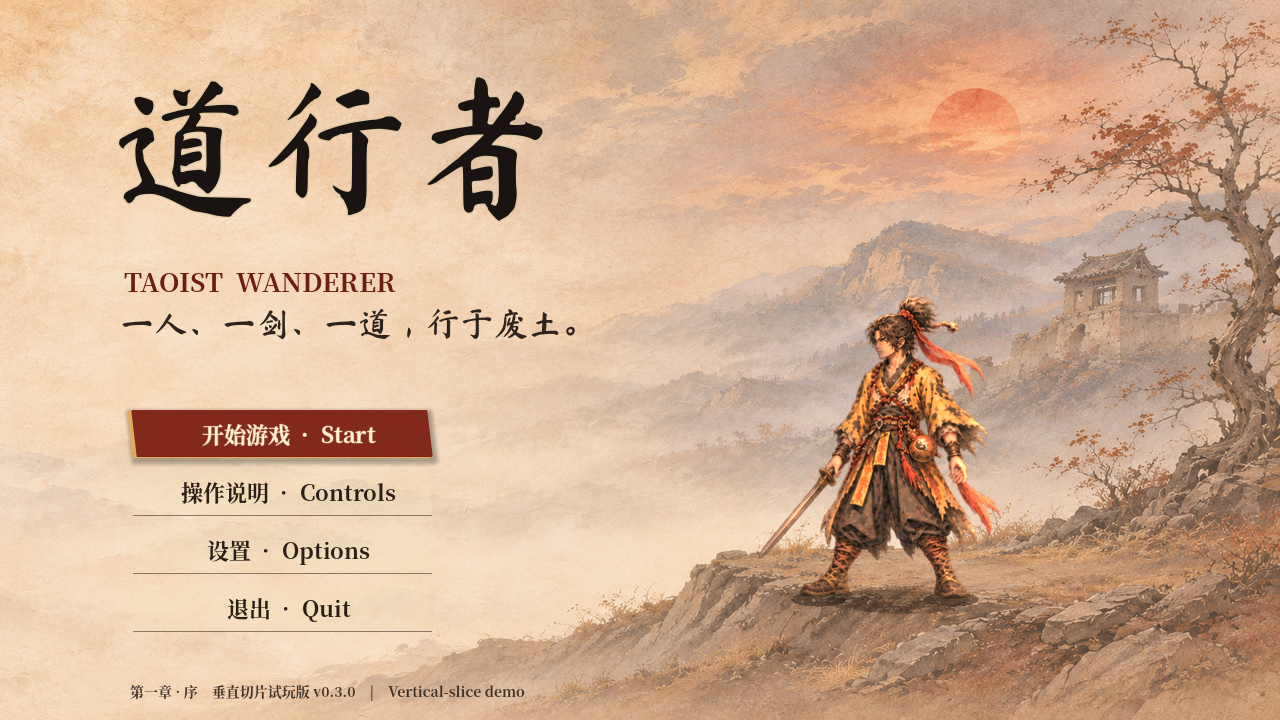
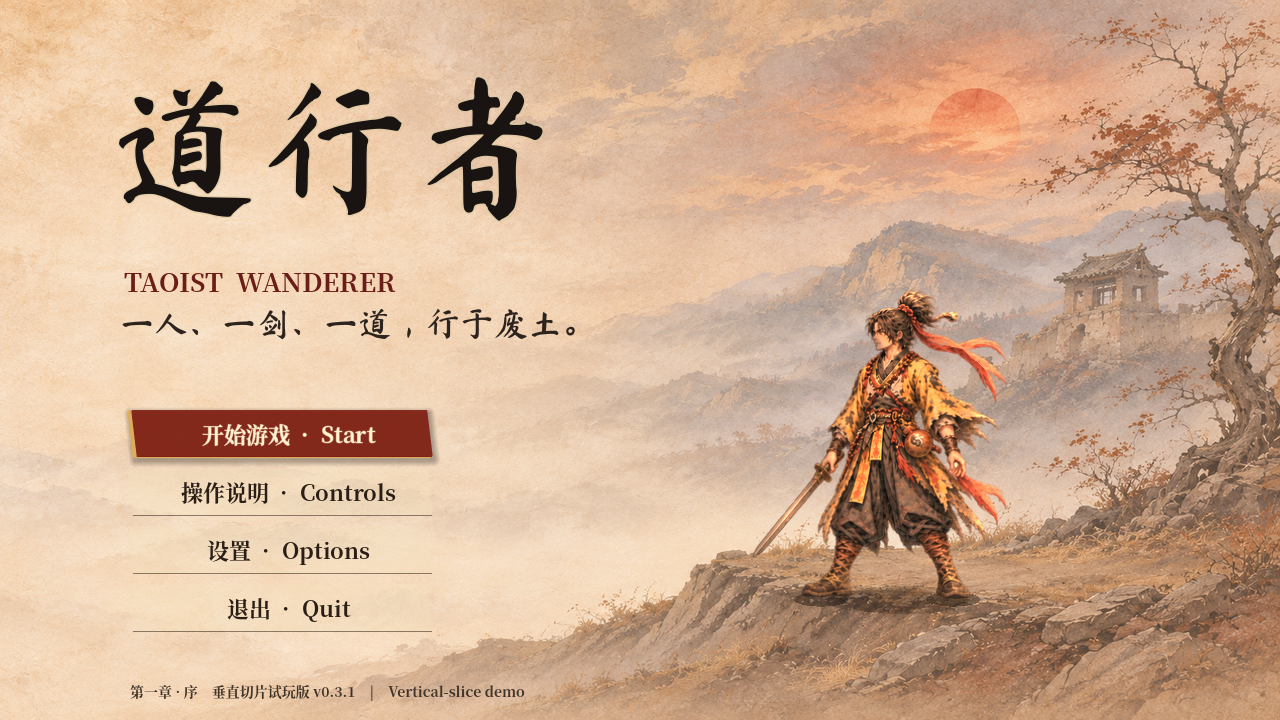
0.3.1: evidence, docs, release notes
- evidence/v0.3.1: same-harness before/after captures vs 451d4d3,
  baseline validation, fixes table, native Linux package results.
- DEVELOPMENT_STATUS / ROADMAP / DECISIONS (D22 guard stance, D23 UI
  theme) / BUILD_AND_RUN (branch, visual review modes) / RELEASE_NOTES.
- Version 0.3.1.

Changed region(s): [[0.5938, 0.3972, 0.7812, 0.825]]

diff --git a/evidence/v0.3.1/README.md b/evidence/v0.3.1/README.md
@@ -1,0 +1,41 @@
+# 0.3.1 · 接手验证与画面修整
+
+基线：Codex 最新提交 `451d4d3`（比已发布 RC1 `93cee6d` 新 5 个提交，含逐帧动画、2.5D 光照、打击感与标题/结局）。
+分支：`claude/post-codex-continuation`。
+
+![左列 451d4d3，右列 0.3.1。依次为标题菜单、毒池中的主角、尸将结界与光门、首战。](comparison.jpg)
+
+同一测试脚本（`game/tests/test_runner.gd` 的 `titlecap`、`showcase`、`gatecap` 模式）分别在 `451d4d3` 工作树与本分支上运行，Xvfb + 软件 GL，1280×720，`--fixed-fps 60`。原图在 [before/](before) 与 [after/](after)。
+
+## 基线验证（451d4d3，未修改前）
+- 干净导入：成功（首次导入时字体尚未导入的 4 行报错属正常顺序问题，二次启动无报错）。
+- `--test=all`：52/52 通过。
+- 通关机器人：完整通关，0 死亡，24 击杀。
+- 完整渲染通关录像（movie writer，2:56）逐区审查：荒村、道路边缘、低洼污染区、废弃道观、乱葬岗与尸将。
+
+## 录像审查发现并已修复
+| 问题 | 证据 | 修复 |
+| --- | --- | --- |
+| 两次出招之间主角闪回正面 3/4 待机图（其余动作均为侧面），每次连击间隙身体“转身”一次 | 首战逐帧条 | 战斗中（出招/格挡/受击/技能后 2.6 s 或 430 px 内有敌）保持侧身持剑守势；战斗结束后才回到放松待机。回归测试 `guard_stance` |
+| 尸将战提示条压在地面线，遮住双方脚部与招式 | 尸将战 1:54 | Boss 战时提示条移到 Boss 名牌下方的天空带 |
+| 伤害数字叠印 | 首战逐帧条 | 同一目标 0.42 s 内的数字向上堆叠 |
+| 终点光门为纯黑矩形占位 | 乱葬岗右侧 | 有明暗与檐角的石牌坊、匾额、地面薄雾 |
+| 结界为通屏高的“梯子” | 各战斗区 | 由地面符阵升起并向上渐隐的光幕，四张悬符 |
+| 粒子为硬方块，与手绘风格冲突 | 尸将近景 | 统一柔边圆点 |
+| 地面血墨渍为不透明黑椭圆，像地面破洞 | 多处 | 半透明渗染、柔边，存在 5 s |
+| 平台（砖墙等）全饱和，像贴纸 | 荒村 | 采用所在区的阴影色调 + 接地软影 |
+| 站在毒池中主角整身变橄榄绿 | 低地/showcase | 毒池点光强度减半并降饱和，轻度色偏 + 腿部瘴气 |
+| 菜单为 Godot 默认灰色方块 | 标题/暂停/设置 | `InkTheme`：墨色底板、朱砂聚焦印、金边；标题页闲置项为墨字细线 |
+
+## 测试结果（本分支）
+- 源码 `--test=all`：53/53（新增 `guard_stance`）。
+- 通关机器人：完美模式 3 次全部通关（0–1 死亡），拟人模式 1 次通关（1 死亡）。
+- 导出包：`package.py 0.3.1` 生成 Linux / Windows / macOS 三个 ZIP。从 Linux ZIP 解压出的可执行文件内运行 `--test=all` 53/53、通关机器人通关，并在 Xvfb 下渲染截图正常。
+- Linux ZIP（SHA-256 `4dd5c284…3ec2e6`）经 `tools/qa/native_release.py`（Xvfb + llvmpipe）：解压可执行、引擎检查、常规通关、浸泡测试均通过；`title`/`village` 两项被判失败，原因仅是容器无声卡（ALSA 打不开设备，Godot 回退到哑音频驱动并输出 ERROR），截图渲染正常（[native/linux-village.png](native/linux-village.png)，[原始结果](native/linux.json)）。
+- Windows 与 macOS 包已生成，**本环境未运行**（无 Windows / macOS 主机）。
+
+## 未解决 / 需人工
+- 真人试玩、实体手柄、扬声器听感仍未做。
+- 敌我贴身时精灵大面积重叠，近身读招仍偏难（未改碰撞，避免影响已验证的判定）。
+- 主角念珠技能在空中释放时会悬停较久，观感偏“浮”。
+- 关卡平台贴图被横向压缩（碰撞宽度与绘画比例不一致）。

diff --git a/DEVELOPMENT_STATUS.md b/DEVELOPMENT_STATUS.md
@@ -1,8 +1,19 @@
 # DEVELOPMENT_STATUS — 道行者 / Taoist Wanderer
 
-## 0.3 视觉打磨版
+## 0.3.1 接手版（当前）
 
-当前开发分支为 `codex/visual-polish-v03`。三档难度、九个主角新姿势、五区绘景、动态按键提示和场景退出修复已接入。查看[验收记录](evidence/v0.3/README.md)和[候选包](https://github.com/lsaac1208/mtdm/releases/tag/v0.3.0-rc.1)。以下为上一个发布基线的历史记录。
+_2026-11-19 · 分支 `claude/post-codex-continuation`（基于 `codex/visual-polish-v03` @ `451d4d3`）· Godot 4.7.2 · 版本 0.3.1_
+
+当前画面系统：`FrameAnim`（逐帧手绘图集 + 2.5D 法线/厚度/AO，负责移动、跳跃、待机与敌人循环）＋ `PoseSprite`（原画姿势，负责出招关键帧）＋ `CutoutRig`（仅作缺图回退）。三者由 `RigVisual` 统一调度。
+
+- 已验证：基线 52/52 + 通关；本分支 53/53，机器人完美 ×3 / 拟人 ×1 通关；Linux 导出包内 53/53 + 通关 + 渲染截图。
+- 本轮修复与前后对照：[evidence/v0.3.1](evidence/v0.3.1/README.md)。
+- 未验证：Windows、macOS 包未在对应系统运行；无真人试玩与实体手柄测试；音频未经人耳试听。
+- 已知问题与下一步见 [ROADMAP](ROADMAP.md) 的 0.3.1 段落。
+
+## 0.3 视觉打磨版（历史）
+
+当时开发分支为 `codex/visual-polish-v03`。三档难度、九个主角新姿势、五区绘景、动态按键提示和场景退出修复已接入。查看[验收记录](evidence/v0.3/README.md)和[候选包](https://github.com/lsaac1208/mtdm/releases/tag/v0.3.0-rc.1)。以下为上一个发布基线的历史记录。
 
 _Last updated: 2026-11-19 (v0.2.0) · branch `dev/vertical-slice-20261118` · engine Godot 4.7.2 · version 0.2.0_
 

diff --git a/BUILD_AND_RUN.md b/BUILD_AND_RUN.md
@@ -19,6 +19,11 @@ python3 tools/readability.py build/qa/masks build/qa/readability
 ```
 
 
+## 0.3.1 visual review modes
+Run with a display (or `xvfb-run`), `--rendering-driver opengl3 --resolution 1280x720 --fixed-fps 60`, then `-- --test=<mode> --shots=<dir> --mute`:
+`titlecap` (title menu), `showcase` (every enemy telegraph + hero skills), `gatecap` (encounter ward, sealed/open end gate), `combocap` (per-frame combo), `ending_shot`. A full rendered playthrough: `--write-movie out.avi -- --test=bot`.
+To compare against another commit, check it out in a worktree, copy the current `game/tests/test_runner.gd` into it, and run the same modes (see evidence/v0.3.1).
+
 ## 1. Requirements
 - **Godot 4.7.2 stable** (standard build, not .NET). Download: https://godotengine.org/download/archive/4.7.2-stable/
 - For exports: the matching **export templates** (Editor → Manage Export Templates, or unpack `Godot_v4.7.2-stable_export_templates.tpz` into `~/.local/share/godot/export_templates/4.7.2.stable/`).
@@ -27,7 +32,7 @@ python3 tools/readability.py build/qa/masks build/qa/readability
 ## 2. Play from source
 ```bash
 git clone https://github.com/lsaac1208/mtdm.git
-cd mtdm && git switch codex/visual-polish-v03
+cd mtdm && git switch claude/post-codex-continuation
 godot --path game            # or open game/project.godot in the editor and press F5
 ```
 The first launch imports assets (~10 s).

diff --git a/ROADMAP.md b/ROADMAP.md
@@ -1,5 +1,15 @@
 # ROADMAP — 道行者 / Taoist Wanderer
 
+## 0.3.1 接手版（进行中）
+完成：守势待机、Boss 战提示位置、伤害数字堆叠、光门/结界/粒子/墨渍/平台融入、毒池色偏、统一菜单皮肤（见 [evidence/v0.3.1](evidence/v0.3.1/README.md)）。
+
+下一步（按优先级）：
+1. 近身重叠：给敌我加最小视觉间距或轻推，保持判定不变，并用 `elite_fairness`、`spec_conformance` 回归。
+2. 平台贴图按绘画比例裁切或分段，消除横向压缩。
+3. 念珠空中释放的悬停感（缩短或加下落缓冲）。
+4. HUD 层级：头像、血条与技能图标的尺寸与留白再整理。
+5. 真人试玩（需人工）、Windows/macOS 实机（需对应系统）。
+
 ## 0.3 交付与下一次观察
 
 本轮实现主角、五区环境、危险边界与 HUD 的视觉打磨，保留既有战斗判定。请结合[同机位录像与验收](evidence/v0.3/README.md)和[首玩记录](evidence/v0.3/PLAYTEST.md)，先处理具体读招困难与操作误解，再安排新章节。下列 0.1 与 0.2 里程碑用于回溯。

diff --git a/DECISIONS.md b/DECISIONS.md
@@ -90,3 +90,9 @@ Significant technical and production decisions, newest last. Each entry: decisio
 
 ## D21 · macOS export without Apple credentials (M10)
 - Universal `.app`, ad-hoc signed by Godot's built-in signer; needs ETC2/ASTC import enabled. Not notarized → Gatekeeper requires right-click → Open. Not run on a Mac.
+
+## D22 · Combat guard instead of relaxed idle between strikes (0.3.1)
+- The relaxed idle sheet is drawn three-quarter front while every other hero drawing is in profile. `Player.guard_t` keeps the painted profile guard (`hero_strike_settle`) for 2.6 s after any combat action or while an aggro enemy is within 430 px; the relaxed idle only plays out of combat. Covered by `guard_stance`.
+
+## D23 · One UI theme (0.3.1)
+- `InkTheme.shared()` (code-built `Theme`) is set on the root window and on the pause/options roots (CanvasLayer children do not inherit the window theme). Screens keep their own font sizes/colours; only widget skins come from the theme.

diff --git a/RELEASE_NOTES.md b/RELEASE_NOTES.md
@@ -1,6 +1,13 @@
-# 道行者 · Taoist Wanderer 0.3.0
+# 道行者 · Taoist Wanderer 0.3.1
 
 横版动作试玩。沿着荒村、断路、污染低地、废弃道观与乱葬岗前进，击败尸将，从光门离开。第一次游玩建议选择常规难度。选项中也可切换故事或修行。
+
+## 0.3.1 更新
+
+- 连击间隙主角保持侧身持剑守势，不再闪回正面站姿。
+- 尸将战提示移到画面上方，不再遮挡双方脚下。
+- 伤害数字向上堆叠；光门、结界、地面墨渍、平台与粒子重新绘制以融入场景。
+- 站在毒池中不再整身发绿；标题、暂停与设置菜单换成统一的墨色与朱砂样式。
 
 ## 启动
 
